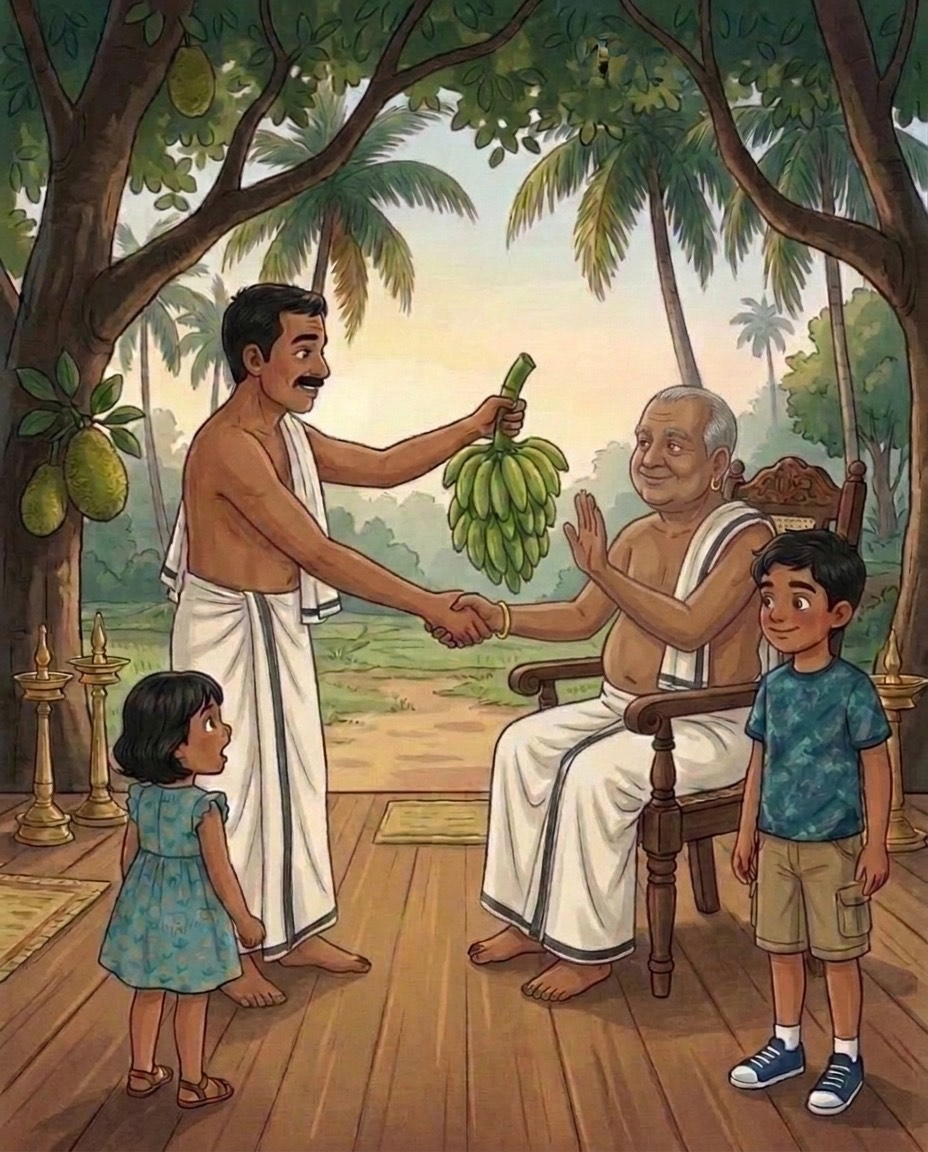
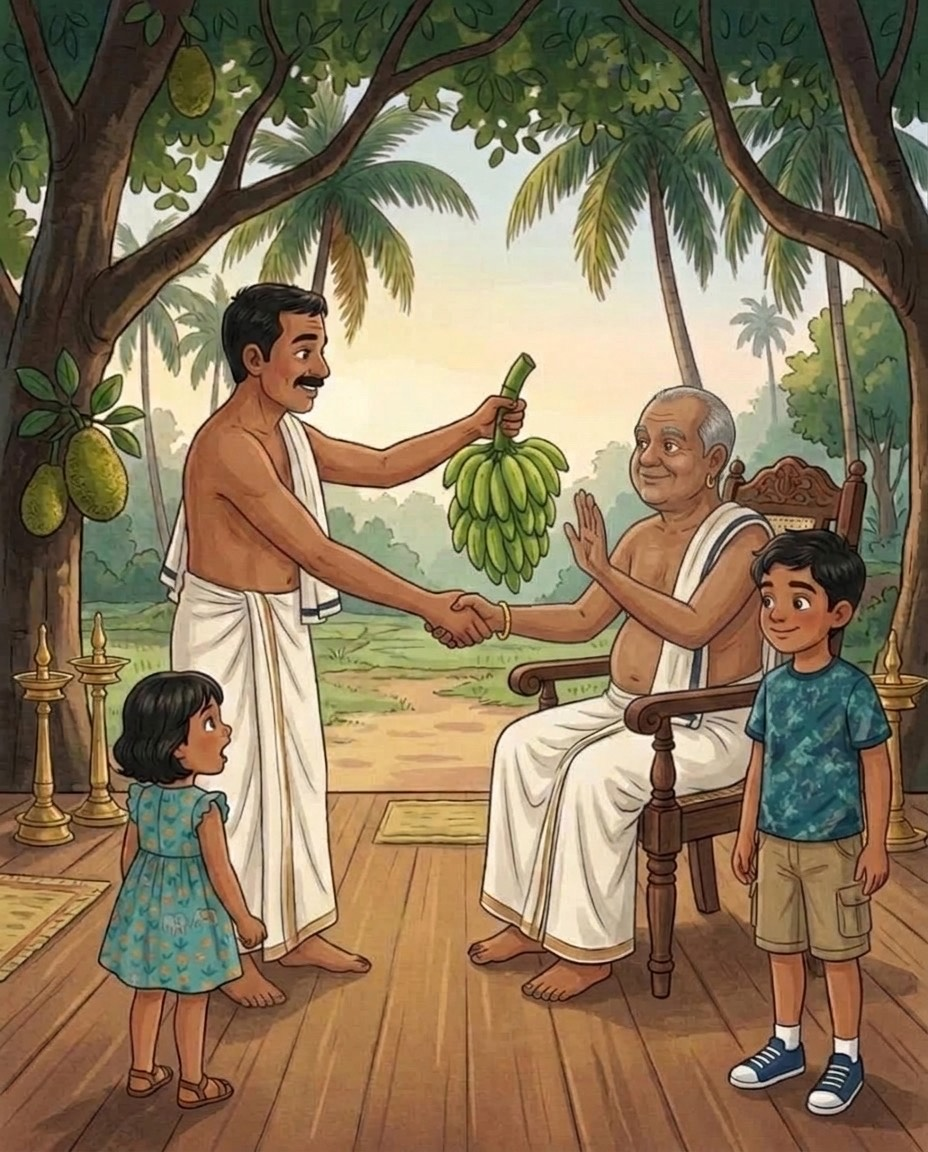
Comic ch.1: redo panels 7, 8, 12 from the originals in one pass
Repeated AI edits had softened these panels (panel 8 most). Redone from the
original drawings with all agreed changes at once, restoring crisp line work.

diff --git a/comics/chiyyaram-childhood/index.html b/comics/chiyyaram-childhood/index.html
@@ -59,7 +59,7 @@
 <script src="story.js?v=3"></script>
 <script>
 var COMIC = {
-  v: '7',  // bump whenever a panel image changes, so browsers drop their cached copies
+  v: '8',  // bump whenever a panel image changes, so browsers drop their cached copies
   next: 'Next time: who was Appuman?',
   nextUrl: '../../stories/appuman-harvest.html',
   nextLink: 'Read Chapter 2 →'
